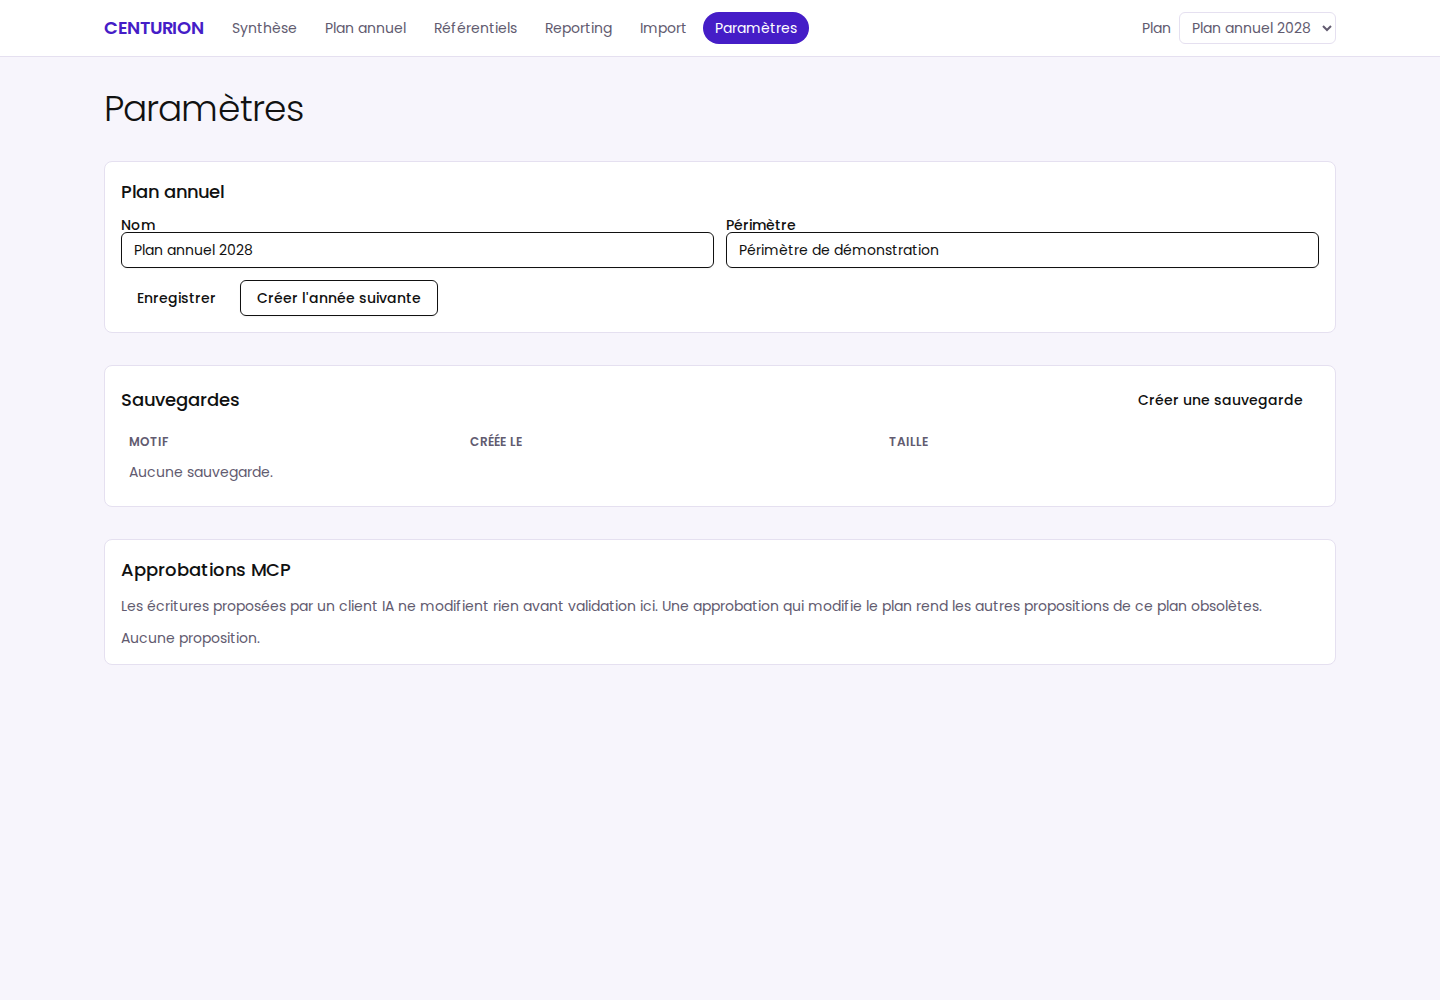
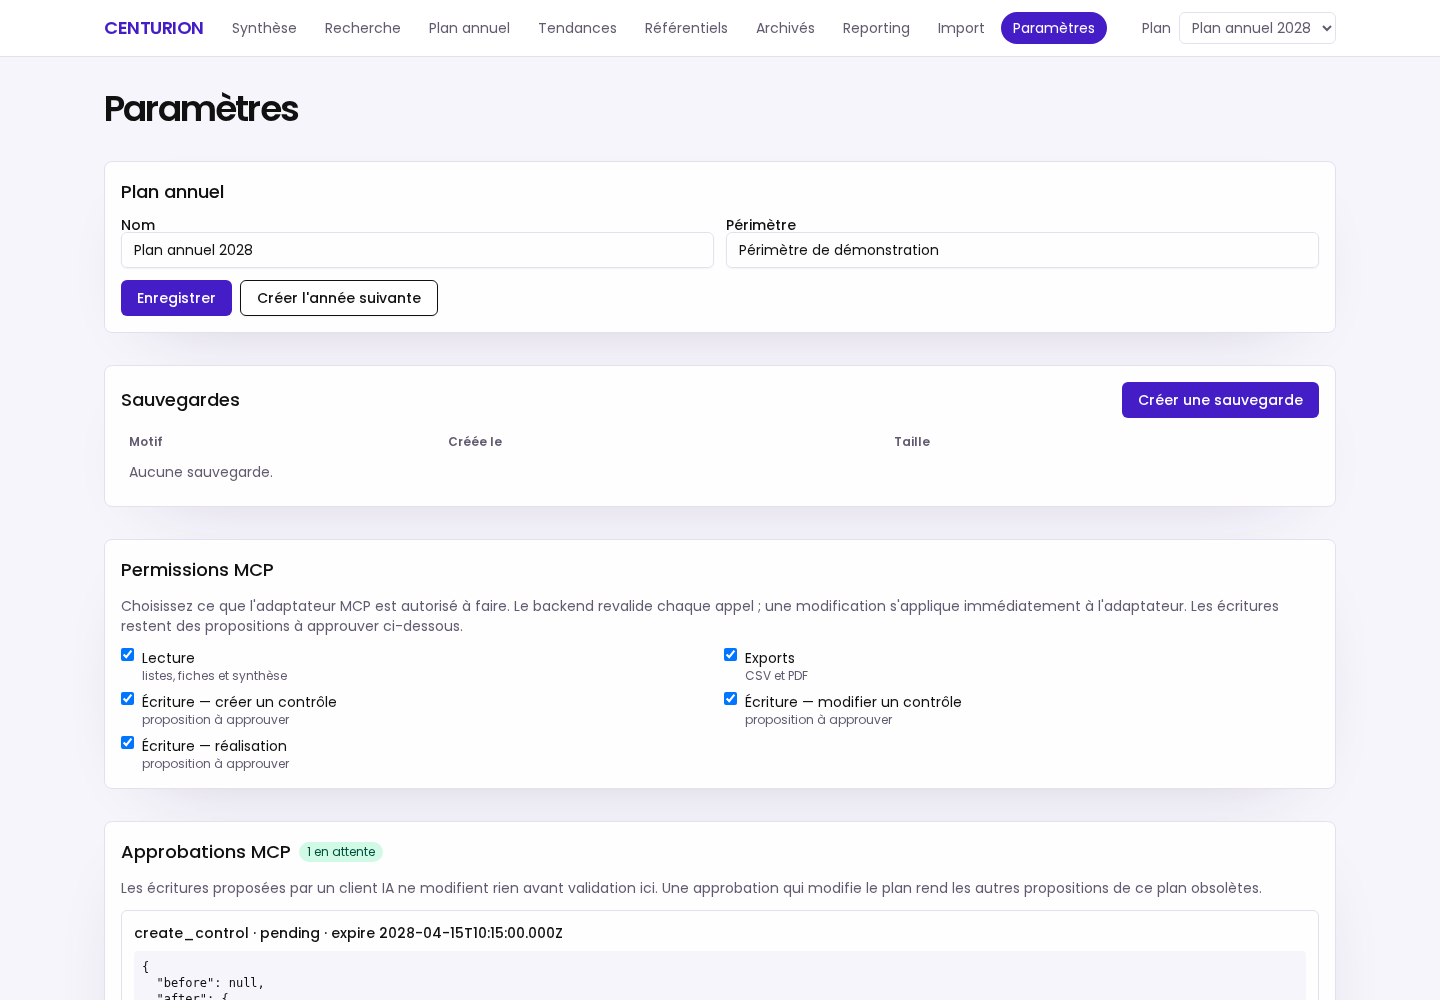
docs: user notice with real screenshots; fix SPA fallback for new routes
- docs/NOTICE.md: full French user guide (install, tour of all screens with
  screenshots from docs/screenshots, daily workflows, MCP connection,
  security notes), linked from README.
- Fix: deep routes /search, /trends, /archived returned 404 on direct load;
  SPA fallback allowlist updated + regression test (app-serving.test.ts).
- capture-screenshots.mjs extended to the new pages; new npm run capture.

Generated by Mistral Vibe.

diff --git a/tests/integration/app-serving.test.ts b/tests/integration/app-serving.test.ts
@@ -1,0 +1,73 @@
+import { randomUUID } from 'node:crypto';
+import { mkdirSync, mkdtempSync, rmSync, writeFileSync } from 'node:fs';
+import { tmpdir } from 'node:os';
+import { join } from 'node:path';
+import type { FastifyInstance } from 'fastify';
+import { afterEach, describe, expect, it } from 'vitest';
+import { buildApp } from '../../src/server/app';
+import { fixedClock } from '../../src/server/clock';
+import { loadConfig } from '../../src/server/config';
+import { openDatabase } from '../../src/server/db/database';
+import { Runtime } from '../../src/server/runtime';
+import { OperationGate } from '../../src/server/storage/operation-gate';
+import { canonicalDataDir, ensurePrivateDir } from '../../src/server/storage/paths';
+
+const HOST = '127.0.0.1:4317';
+const CLOCK = '2028-04-15T10:00:00.000Z';
+
+const apps: FastifyInstance[] = [];
+const dirs: string[] = [];
+
+afterEach(async () => {
+  while (apps.length > 0) await apps.pop()?.close();
+  for (const dir of dirs) rmSync(dir, { recursive: true, force: true });
+  dirs.length = 0;
+});
+
+async function makeApp(): Promise<FastifyInstance> {
+  const raw = mkdtempSync(join(tmpdir(), 'centurion-serving-'));
+  dirs.push(raw);
+  const dataDir = canonicalDataDir(raw);
+  ensurePrivateDir(dataDir);
+  const webDistDir = join(raw, 'web');
+  mkdirSync(webDistDir);
+  writeFileSync(join(webDistDir, 'index.html'), '<!doctype html><title>CENTURION</title>');
+  const db = openDatabase(join(dataDir, 'centurion.sqlite'));
+  const runtime = new Runtime(
+    loadConfig({}, { dataDir, webDistDir }),
+    fixedClock(CLOCK),
+    dataDir,
+    new OperationGate(),
+    db,
+    randomUUID(),
+  );
+  const app = await buildApp({ config: runtime.config, clock: runtime.clock, runtime });
+  await app.ready();
+  apps.push(app);
+  return app;
+}
+
+describe('SPA serving', () => {
+  it('serves index.html on every deep route and JSON 404 on unknown API paths', async () => {
+    const app = await makeApp();
+    for (const path of [
+      '/',
+      '/search',
+      '/plan',
+      '/trends',
+      '/references',
+      '/archived',
+      '/reporting',
+      '/import',
+      '/settings',
+      '/control/any-id',
+    ]) {
+      const res = await app.inject({ method: 'GET', url: path, headers: { host: HOST } });
+      expect(res.statusCode).toBe(200);
+      expect(res.headers['content-type']).toContain('text/html');
+    }
+    const api = await app.inject({ method: 'GET', url: '/api/nope', headers: { host: HOST } });
+    expect(api.statusCode).toBe(404);
+    expect(api.headers['content-type']).toContain('application/json');
+  });
+});

diff --git a/src/server/app.ts b/src/server/app.ts
@@ -74,8 +74,11 @@ export async function buildApp(deps: AppDeps): Promise<FastifyInstance> {
       ),
     );
     for (const path of [
+      '/search',
       '/plan',
+      '/trends',
       '/references',
+      '/archived',
       '/reporting',
       '/import',
       '/settings',

diff --git a/docs/NOTICE.md b/docs/NOTICE.md
@@ -1,0 +1,232 @@
+# CENTURION — Notice d'utilisation
+
+Application **locale et mono-utilisateur** de suivi d'un plan annuel de contrôles
+cyber et IT : occurrences récurrentes, réalisations auditées, justificatifs,
+tendances multi-années, exports, sauvegardes — et un serveur MCP pour piloter
+les données depuis un assistant IA.
+
+> CENTURION est un outil de suivi et de traçabilité. Ses exemples ISO 27001 /
+> ISAE 3402 / PCI DSS servent à illustrer le suivi ; ils ne constituent **ni
+> une évaluation de conformité, ni une opinion d'assurance**.
+
+Toutes les captures ci-dessous sont des écrans réels de l'application, prises sur
+le jeu de données de démonstration (`npm run dev:demo`).
+
+---
+
+## 1. Installation et lancement
+
+Prérequis : **Node.js 24 LTS** (`>=24 <25`) et npm 11. Aucun accès réseau
+n'est requis au runtime.
+
+```bash
+npm ci
+npm run build
+npm run start        # UI + API sur http://127.0.0.1:4317
+```
+
+Ouvrez <http://127.0.0.1:4317> dans votre navigateur. L'application n'écoute que
+sur `127.0.0.1` ; un seul processus peut accéder aux données (verrou d'instance).
+
+**Démo reproductible** (données fictives, horloge fixe 2028-04-15, plan 2028) :
+
+```bash
+npm run dev:demo                 # seed si vide, aucun reset implicite
+npm run demo:reset -- --confirm  # retour à l'état déterministe (data/demo uniquement)
+```
+
+Les données vivent dans `CENTURION_DATA_DIR`, ou par défaut dans le répertoire
+utilisateur de la plateforme (`~/.local/share/centurion` sous Linux,
+`%LOCALAPPDATA%/Centurion` sous Windows, `~/Library/Application Support/Centurion`
+sur macOS).
+
+---
+
+## 2. Tour des écrans
+
+La barre de navigation en haut donne accès à toutes les pages ; le sélecteur à
+droite choisit le plan annuel actif.
+
+### Synthèse
+
+Vue d'ensemble du plan sélectionné : compteurs (total, à renseigner, réalisés,
+non réalisés), taux de réalisation / conformité / automatisation, et prochaines
+occurrences à traiter.
+
+![Synthèse](screenshots/synthese.png)
+
+### Recherche
+
+Recherche globale sur les contrôles (code, titre, description), résultats
+plafonnés à 50, contrôles archivés inclus.
+
+![Recherche](screenshots/recherche.png)
+
+### Plan annuel
+
+Tableau des occurrences de l'année avec filtres (texte, référentiel, état),
+pagination, et vue « Douze mois ». Le bouton **Nouveau contrôle** ouvre la
+fiche de création.
+
+![Plan annuel](screenshots/plan-annuel.png)
+
+### Tendances
+
+Évolution multi-années : un point par exercice (occurrence, réalisation,
+conformité) avec les mêmes filtres, tableau + graphique, et export CSV.
+
+![Tendances](screenshots/tendances.png)
+
+### Fiche contrôle
+
+Définition du contrôle (référentiels, clauses, responsables…), calendrier et
+aperçu de changement de planning, réalisations avec justificatifs, et historique
+d'audit (qui a modifié quoi, quand).
+
+![Fiche contrôle](screenshots/fiche-controle.png)
+
+### Référentiels
+
+Agrégation par référentiel (ISO 27001, ISAE 3402 Type 2, combinés) : suivi par
+famille, pas une couverture certifiée.
+
+![Référentiels](screenshots/referentiels.png)
+
+### Archivés
+
+Liste des contrôles archivés de tous les plans, avec leur exercice d'origine.
+
+![Archivés](screenshots/archives.png)
+
+### Reporting
+
+Rapport filtrable avec exports **CSV** (toutes les occurrences filtrées) et
+**PDF** (rapport paginé, borné à 1 000 occurrences).
+
+![Reporting](screenshots/reporting.png)
+
+### Import
+
+Import **CSV/XLSX** revu : upload, mapping explicite des colonnes, aperçu paginé
+(create / update / unchanged / invalid), puis application **atomique**.
+
+![Import](screenshots/import.png)
+
+### Paramètres
+
+Nom et périmètre du plan, création de l'année suivante, **sauvegardes** (créer,
+restaurer avec aperçu), **permissions MCP** et approbations des écritures
+proposées par un assistant IA.
+
+![Paramètres](screenshots/parametres.png)
+
+---
+
+## 3. Les workflows du quotidien
+
+### Créer un contrôle
+
+Plan annuel → **Nouveau contrôle** : code, titre, description, référentiels,
+fréquence (mensuel / trimestriel / semestriel / annuel / dates explicites) et
+date d'ancrage. Les occurrences de l'année sont générées automatiquement.
+
+### Renseigner une réalisation
+
+Depuis le plan annuel, cliquez sur le badge de conformité d'une occurrence :
+**FAIT** oui/non, conformité (conforme, partiellement conforme, non conforme,
+non applicable — forcée à *non applicable* si FAIT = non), date de réalisation
+(antérieure acceptée, future refusée), commentaire, référence de preuve.
+Les corrections gardent le même identifiant et sont auditées (avant/après).
+
+### Joindre des justificatifs
+
+Dans la fiche contrôle, onglet **Réalisations** : déposez un fichier
+(**PDF, PNG, JPEG ou TXT, ≤ 5 MiB**) sur une occurrence. Le fichier est stocké
+sous le répertoire de données (hash SHA-256), téléchargeable, supprimable.
+Les justificatifs sont bornés et typés, mais **non scannés par antivirus**.
+
+### Lier des clauses
+
+Fiche contrôle → onglet **Définition** → section **Clauses** : cochez les clauses
+à associer (créables via l'API `POST /api/clauses`) et enregistrez. La synthèse
+et les tendances agrègent alors la couverture par clause.
+
+### Archiver un contrôle
+
+Fiche contrôle → onglet **Calendrier** : choisissez une **date d'effet** puis
+**Archiver**. Les occurrences ouvertes à partir de cette date passent
+« supplantées », les réalisées sont conservées telles quelles. L'archivage est
+réversible visuellement via la page **Archivés**.
+
+### Sauvegarder et restaurer
+
+Paramètres → **Sauvegardes** : sauvegarde cohérente (copie SQLite à chaud),
+rétention 20 automatiques + manuelles, restauration journalisée avec aperçu
+de 15 minutes et reprise possible après arrêt.
+
+---
+
+## 4. Connecter un assistant IA (MCP)
+
+CENTURION expose un serveur **MCP en stdio**, agnostique de l'hôte (OpenCode,
+Codex, VS Code, Claude Desktop…) :
+
+1. Démarrez le backend : `npm run start`
+2. Dans la configuration MCP de votre hôte (ex. `.mcp.json`) :
+
+```json
+{
+  "mcpServers": {
+    "centurion": {
+      "type": "stdio",
+      "command": "/chemin/vers/CENTURION/scripts/mcp-stdio.sh",
+      "env": { "CENTURION_DATA_DIR": "/chemin/vers/CENTURION/data/demo" }
+    }
+  }
+}
+```
+
+**Lecture seule par défaut — 10 outils** : `list_plans`, `get_plan`,
+`list_controls`, `get_control`, `list_occurrences`, `get_summary`, `get_trends`,
+`list_clauses`, `export_controls_csv`, `generate_report_pdf`.
+
+Les **écritures** (`create_control`, `update_control_metadata`, `set_occurrence`)
+nécessitent le double flag `CENTURION_MCP_WRITE=1` (backend **et** adaptateur)
+**et** ne modifient rien avant une approbation explicite dans l'UI
+(Paramètres → Approbations MCP). Activez/désactivez chaque permission dans
+Paramètres → Permissions MCP.
+
+Voir [`docs/MCP.md`](MCP.md) pour les détails (jeton runtime, limites, frontière
+de confiance). Attention : les données renvoyées à l'hôte IA peuvent être
+transmises par cet hôte à son fournisseur de modèle.
+
+---
+
+## 5. Sécurité et limites
+
+- Mono-utilisateur, sans compte ni SSO ; l'app protège les requêtes du navigateur
+  (Origin, en-tête `X-Centurion-Request`, hôte) mais pas les autres processus du
+  même poste.
+- Aucune donnée ne quitte la machine, sauf via le serveur MCP stdio (voir ci-dessus).
+- Pas de notion automatique de retard/SLA, pas de chiffrement applicatif, pas
+  d'inviolabilité de l'audit.
+- MCP en stdio uniquement (pas de transport réseau).
+
+---
+
+## 6. Commandes utiles
+
+```bash
+npm run check        # typecheck + lint + tests unitaires/intégration/sécurité/MCP
+npm run test:e2e     # tests Playwright contre un build de production
+npm run diagnose     # état rapide des artefacts de build
+npm run audit:deps   # npm audit (réseau requis)
+```
+
+Régénérer les captures de cette notice :
+
+```bash
+npm run build && npm run seed:demo
+CENTURION_DATA_DIR="$PWD/data/demo" npm run start &
+node scripts/capture-screenshots.mjs   # écrit docs/screenshots/*.png
+```

diff --git a/docs/EXECUTION.md b/docs/EXECUTION.md
@@ -1113,3 +1113,33 @@ les captures régénérées si besoin.
 ### Prochaine action
 
 Commit local.
+
+## Post-T25 — notice d'utilisation illustrée + fix fallback SPA des nouvelles routes
+
+État : livré et vérifié le 8 novembre 2026.
+
+- **Bug trouvé en capturant les écrans** : le fallback SPA (`app.ts`) ne
+  servait `index.html` que pour les anciennes routes ; `/search`, `/trends`,
+  `/archived` renvoyaient 404 en chargement direct. Routes ajoutées + test de
+  régression `tests/integration/app-serving.test.ts` (toutes les routes
+  profondes → 200 HTML, API inconnue → 404 JSON).
+- `docs/NOTICE.md` : notice d'utilisation complète en français, avec les 10
+  captures réelles de `docs/screenshots/` (synthèse, recherche, plan annuel,
+  tendances, fiche contrôle, référentiels, archivés, reporting, import,
+  paramètres) : installation, lancement, démo, tour des écrans, workflows
+  (contrôle, réalisation, justificatifs, clauses, archivage, sauvegardes),
+  connexion MCP générique, sécurité/limites, commandes utiles. Liée depuis le
+  README.
+- `scripts/capture-screenshots.mjs` étendu aux nouvelles pages (recherche avec
+  requête remplie) ; nouveau script npm `npm run capture`.
+
+| Commande | Résultat |
+| --- | --- |
+| `npm run check` | 170/170 tests (23 fichiers), typecheck et lint OK |
+| `npm run build` | OK |
+| `npm run test:e2e` | 9/9 passés |
+| `node scripts/capture-screenshots.mjs` (serveur démo actif) | 10 captures dans `docs/screenshots/` |
+
+### Prochaine action
+
+Commit local.

diff --git a/README.md b/README.md
@@ -10,6 +10,9 @@ CENTURION est un projet indépendant. Ses exemples ISO 27001 et ISAE 3402 serven
 à illustrer le suivi et la traçabilité ; ils ne constituent ni une évaluation de
 conformité ni une opinion d'assurance.
 
+> **[Notice d'utilisation illustrée](docs/NOTICE.md)** — installation, tour des
+> écrans avec captures, workflows du quotidien et connexion MCP.
+
 ## Prérequis
 
 - Node.js 24 LTS (`>=24 <25`) et npm 11.
